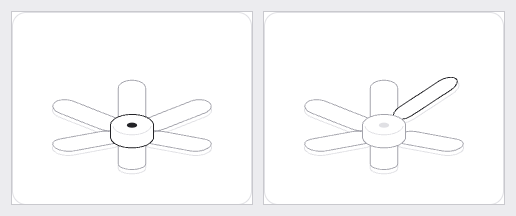
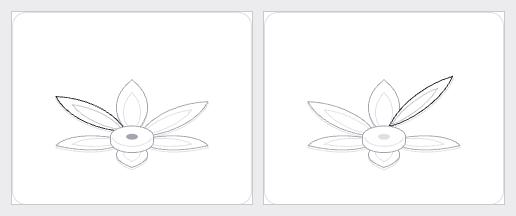
fix(figures): the Aster mark reads as a flower, not a fan
Petals are pointed lenses with a vein crease, widest at two fifths as the
mark's drawing has them, on a flat amber disc instead of a puck, cupped 12°
at rest with the upper-left petal raised and bright as board 07 draws it.
The gesture is unchanged. Engine bytes unchanged; header ranges updated;
the bench page and look sheets under docs/figures/aster are the new ones.

diff --git a/src/lib/figures/aster.ts b/src/lib/figures/aster.ts
@@ -25,8 +25,8 @@
  *
  * Lines 51–765 below are that package's engine (its src/core, built as the Hairline skill's
  * kernel.js), unchanged byte for byte, except line 133, a `// prettier-ignore` that is ours.
- * Lines 768–994 are the Aster figure: `mount()` from line 839, its SPEC from line 985.
- * Lines 996–1129 are the adapter, copied from the package's `create()` (src/mount.ts) for this one figure.
+ * Lines 768–1026 are the Aster figure: `mount()` from line 865, its SPEC from line 1017.
+ * Lines 1028–1161 are the adapter, copied from the package's `create()` (src/mount.ts) for this one figure.
  *
  * When the package is bumped, regenerate the engine block from the bench page the skill builds; never patch it by hand.
  */
@@ -767,13 +767,13 @@ var HL = (() => {
 
 // 2. the figure --------------------------------------------------------------------------------
 /**
- * Aster: the Aster mark as a thing on a desk. Six full-round petals, each a
- * thin plate hinged at the hub, around a raised amber disc. The pointer's
- * angle picks the nearest petal: it lifts off the ground on the 700ms curve
- * and tilts, by springs, so the point under the pointer rises most, the tip
- * when the pointer is out, the near edge when it is to one side. The disc is
- * the amber: bright at rest, dimming in two steps as the pointer goes out a
- * petal and brightening again as it comes back in. The slider is the tilt.
+ * Aster: the Aster mark as a flower on a desk. Six pointed petals, each a thin
+ * plate with a vein, hinged under a flat amber disc and cupped upward at rest,
+ * one of them raised and bright, as the mark is drawn. The pointer's angle
+ * picks the nearest petal: it lifts on the 700ms curve and tilts, by springs,
+ * so the point under the pointer rises most, the tip when the pointer is out,
+ * the near edge when it is to one side. The disc is the amber: it brightens as
+ * the pointer comes in over it, and the petals rest. The slider is the tilt.
  *
  * The pattern: one of many, picked by angle. A tween for which, springs for
  * where, and a hit test on the ground plane, the rest pose, so a petal lifting
@@ -789,7 +789,6 @@ const {
 	prism,
 	proj,
 	rad,
-	rrect,
 	spring,
 	stepS,
 	tdone,
@@ -808,15 +807,17 @@ const {
 } = HL;
 
 const N = 6,
-	W = 14,
-	L = 38,
-	R0 = 8,
-	T = 2.4,
+	W = 16,
+	L = 42,
+	R0 = 4,
+	T = 1.2,
 	R = 11,
-	HD = 7,
-	LIFT = 4,
+	HD = 3,
+	LIFT = 5,
 	ROLL = 0.5;
-const CUP = rad(6); // every petal rests tipped up a little, like a flower's, so rest is never flat
+const CUP = rad(12); // every petal rests cupped upward, like a flower's, so rest is never flat
+const REST_K = 5,
+	REST_LIFT = 3; // the mark's raised petal: upper left, a little off the ground
 const PHI0 = rad(225); // petal 1 points up the screen at the 2:1 camera
 const STEP = rad(360 / N);
 const REACH = R0 + L + 4;
@@ -825,6 +826,31 @@ const REACH = R0 + L + 4;
 function axes(k) {
 	const a = PHI0 + k * STEP;
 	return { ax: [Math.cos(a), Math.sin(a)], sd: [-Math.sin(a), Math.cos(a)], a };
+}
+
+/** A pointed petal as a ring of samples {u, v, nu, nv}: two cubics from the base to the tip, widest at two fifths, as the mark draws it. */
+function lens(v0, len, half, n) {
+	const c = half * 1.33; // the control points' offset gives a maximum width of about three quarters of it
+	const side = (s) => {
+		const out = [];
+		for (let i = 1; i < n; i++) {
+			const t = i / n,
+				mt = 1 - t;
+			const u = s * 3 * c * mt * t * (mt + t),
+				v = v0 + len * (3 * mt * mt * t * 0.29 + 3 * mt * t * t * 0.71 + t * t * t);
+			const du = s * 3 * c * (mt * mt - t * t),
+				dv = len * (3 * mt * mt * 0.29 + 6 * mt * t * (0.71 - 0.29) + 3 * t * t * (1 - 0.71));
+			const m = Math.hypot(du, dv);
+			out.push({ u, v, nu: (s * dv) / m, nv: (-s * du) / m });
+		}
+		return out;
+	};
+	return [
+		{ u: 0, v: v0, nu: 0, nv: -1 },
+		...side(1),
+		{ u: 0, v: v0 + len, nu: 0, nv: 1 },
+		...side(-1).reverse()
+	];
 }
 
 /** Local petal point (u across, v along from the hinge, w through the plate) rolled by rho, pitched by th and lifted, in world. */
@@ -840,7 +866,7 @@ function mount({ stage, svg, read }, value) {
 	const bag = disposer();
 	let tilt = rad(value);
 
-	// Fitted to the mark with one petal lifted and tipped up at the slider's far end, so nothing leaves the frame.
+	// Fitted to the flower with one petal lifted and tipped up at the slider's far end, so nothing leaves the frame.
 	const ZT = LIFT + L * Math.sin(rad(32) + CUP) + T;
 	const C = Cam(45, 0.5, 3.3);
 	const E = REACH - 4;
@@ -863,7 +889,8 @@ function mount({ stage, svg, read }, value) {
 		front = facing(C);
 
 	const g = mk('g', {}, svg);
-	const ring = rrect(-W / 2, R0, W / 2, R0 + L, W / 2, 6);
+	const ring = lens(R0, L, W / 2, 9),
+		vein = lens(R0 + 2, L * 0.72, (W / 2) * 0.55, 7);
 
 	// petals, far to near, so a near plate covers a far one
 	const petals = [];
@@ -876,7 +903,7 @@ function mount({ stage, svg, read }, value) {
 			depth: mid[0] + mid[1],
 			th: spring(CUP),
 			rho: spring(0),
-			z: tween(0),
+			z: tween(k === REST_K ? REST_LIFT : 0),
 			last: null
 		});
 	}
@@ -884,12 +911,13 @@ function mount({ stage, svg, read }, value) {
 		p.grp = mk('g', {}, g);
 		p.back = mk('path', { class: 'lo' }, p.grp);
 		p.face = mk('path', { class: 'sil' }, p.grp);
+		p.vein = mk('path', { class: 'nf lo' }, p.grp);
 	}
 
-	// the disc, which never moves: a short cylinder with its crease, and the amber as a dot on its top
+	// the disc, which never moves: a flat cylinder with its crease, and the amber as a dot on its top
 	const disc = solid(g);
 	put(disc, prism(P, front, circ(R, 28), circ(R - 1.2, 28), 0, HD));
-	const amber = flatDot(g, C, 2.6, 'dot');
+	const amber = flatDot(g, C, 3, 'dot');
 	place(amber, P(0, 0, HD));
 
 	function draw(p, th, rho, lift) {
@@ -902,9 +930,10 @@ function mount({ stage, svg, read }, value) {
 		)
 			return;
 		p.last = [th, rho, lift];
-		const at = (w) => ring.map((q) => P(...world(p.ax, th, rho, lift, q.u, q.v, w)));
-		p.back.setAttribute('d', poly(at(0)));
-		p.face.setAttribute('d', poly(at(T)));
+		const at = (r, w) => r.map((q) => P(...world(p.ax, th, rho, lift, q.u, q.v, w)));
+		p.back.setAttribute('d', poly(at(ring, 0)));
+		p.face.setAttribute('d', poly(at(ring, T)));
+		p.vein.setAttribute('d', poly(at(vein, T)));
 	}
 
 	const B = register(stage, (dt, now) => {
@@ -919,9 +948,9 @@ function mount({ stage, svg, read }, value) {
 	});
 	bag.add(B.unregister);
 
-	let act = -2,
+	let act = -3,
 		level = '';
-	/** Sets the amber's step: bright over the disc and at rest, medium near it, dim out at a tip. One highlight: the disc rim only when no petal is lit. */
+	/** The amber's step: bright over the disc, medium near it or at rest, dim out at a tip. The disc rim lights only when no petal is lit. */
 	function glow(lv) {
 		if (lv === level) return;
 		level = lv;
@@ -939,13 +968,16 @@ function mount({ stage, svg, read }, value) {
 		return { k, d, x, y };
 	}
 
+	/** Lit petal and its lift: at rest the mark's raised petal, a little; under the pointer the chosen one, fully. */
+	const lit = (k) => (act === -2 ? k === REST_K : k === act);
 	function setActive(h) {
 		const now = performance.now();
 		if (h.k !== act) {
 			act = h.k;
 			for (const p of petals) {
-				tset(p.z, p.k === act ? LIFT : 0, now, 0);
-				p.face.classList.toggle('hi', p.k === act);
+				tset(p.z, p.k === act ? LIFT : act === -2 && p.k === REST_K ? REST_LIFT : 0, now, 0);
+				p.face.classList.toggle('hi', lit(p.k));
+				p.vein.classList.toggle('lo', !lit(p.k));
 			}
 			read.textContent = act === -2 ? 'rest' : act === -1 ? 'centre' : 'petal ' + (act + 1);
 		}
@@ -961,11 +993,11 @@ function mount({ stage, svg, read }, value) {
 				p.rho.t = 0;
 			}
 		}
-		glow(act === -2 || act === -1 ? 'hi' : h.d < R0 + L / 2 ? 'm' : 'off');
+		glow(act === -1 ? 'hi' : act === -2 || h.d < R0 + L / 2 ? 'm' : 'off');
 		B.wake();
 	}
 
-	glow('hi');
+	setActive({ k: -2, d: 0, x: 0, y: 0 });
 	bag.add(
 		pointer(stage, {
 			move: (pt) => setActive(hit(pt)),

diff --git a/docs/figures/aster/hairline-aster.html b/docs/figures/aster/hairline-aster.html
@@ -877,25 +877,26 @@ var HL = (() => {
 </script>
 <script type="module" id="hl-figure">
 /**
- * Aster: the Aster mark as a thing on a desk. Six full-round petals, each a
- * thin plate hinged at the hub, around a raised amber disc. The pointer's
- * angle picks the nearest petal: it lifts off the ground on the 700ms curve
- * and tilts, by springs, so the point under the pointer rises most, the tip
- * when the pointer is out, the near edge when it is to one side. The disc is
- * the amber: bright at rest, dimming in two steps as the pointer goes out a
- * petal and brightening again as it comes back in. The slider is the tilt.
+ * Aster: the Aster mark as a flower on a desk. Six pointed petals, each a thin
+ * plate with a vein, hinged under a flat amber disc and cupped upward at rest,
+ * one of them raised and bright, as the mark is drawn. The pointer's angle
+ * picks the nearest petal: it lifts on the 700ms curve and tilts, by springs,
+ * so the point under the pointer rises most, the tip when the pointer is out,
+ * the near edge when it is to one side. The disc is the amber: it brightens as
+ * the pointer comes in over it, and the petals rest. The slider is the tilt.
  *
  * The pattern: one of many, picked by angle. A tween for which, springs for
  * where, and a hit test on the ground plane, the rest pose, so a petal lifting
  * out from under the pointer cannot flip the choice.
  */
 const {
-  Cam, circ, clamp, facing, fit, hull, poly, prism, proj, rad, rrect, spring, stepS,
+  Cam, circ, clamp, facing, fit, poly, prism, proj, rad, spring, stepS,
   tdone, tset, tval, tween, disposer, flatDot, mk, place, pointer, put, register, solid, unproj,
 } = HL;
 
-const N = 6, W = 14, L = 38, R0 = 8, T = 2.4, R = 11, HD = 7, LIFT = 4, ROLL = 0.5;
-const CUP = rad(6); // every petal rests tipped up a little, like a flower's, so rest is never flat
+const N = 6, W = 16, L = 42, R0 = 4, T = 1.2, R = 11, HD = 3, LIFT = 5, ROLL = 0.5;
+const CUP = rad(12); // every petal rests cupped upward, like a flower's, so rest is never flat
+const REST_K = 5, REST_LIFT = 3; // the mark's raised petal: upper left, a little off the ground
 const PHI0 = rad(225); // petal 1 points up the screen at the 2:1 camera
 const STEP = rad(360 / N);
 const REACH = R0 + L + 4;
@@ -904,6 +905,23 @@ const REACH = R0 + L + 4;
 function axes(k) {
   const a = PHI0 + k * STEP;
   return { ax: [Math.cos(a), Math.sin(a)], sd: [-Math.sin(a), Math.cos(a)], a };
+}
+
+/** A pointed petal as a ring of samples {u, v, nu, nv}: two cubics from the base to the tip, widest at two fifths, as the mark draws it. */
+function lens(v0, len, half, n) {
+  const c = half * 1.33; // the control points' offset gives a maximum width of about three quarters of it
+  const side = (s) => {
+    const out = [];
+    for (let i = 1; i < n; i++) {
+      const t = i / n, mt = 1 - t;
+      const u = s * 3 * c * mt * t * (mt + t), v = v0 + len * (3 * mt * mt * t * 0.29 + 3 * mt * t * t * 0.71 + t * t * t);
+      const du = s * 3 * c * (mt * mt - t * t), dv = len * (3 * mt * mt * 0.29 + 6 * mt * t * (0.71 - 0.29) + 3 * t * t * (1 - 0.71));
+      const m = Math.hypot(du, dv);
+      out.push({ u, v, nu: (s * dv) / m, nv: (-s * du) / m });
+    }
+    return out;
+  };
+  return [{ u: 0, v: v0, nu: 0, nv: -1 }, ...side(1), { u: 0, v: v0 + len, nu: 0, nv: 1 }, ...side(-1).reverse()];
 }
 
 /** Local petal point (u across, v along from the hinge, w through the plate) rolled by rho, pitched by th and lifted, in world. */
@@ -917,7 +935,7 @@ function mount({ stage, svg, read }, value) {
   const bag = disposer();
   let tilt = rad(value);
 
-  // Fitted to the mark with one petal lifted and tipped up at the slider's far end, so nothing leaves the frame.
+  // Fitted to the flower with one petal lifted and tipped up at the slider's far end, so nothing leaves the frame.
   const ZT = LIFT + L * Math.sin(rad(32) + CUP) + T;
   const C = Cam(45, 0.5, 3.3);
   const E = REACH - 4;
@@ -925,33 +943,35 @@ function mount({ stage, svg, read }, value) {
   const P = proj(C), front = facing(C);
 
   const g = mk("g", {}, svg);
-  const ring = rrect(-W / 2, R0, W / 2, R0 + L, W / 2, 6);
+  const ring = lens(R0, L, W / 2, 9), vein = lens(R0 + 2, L * 0.72, W / 2 * 0.55, 7);
 
   // petals, far to near, so a near plate covers a far one
   const petals = [];
   for (let k = 0; k < N; k++) {
     const ax = axes(k), mid = world(ax, 0, 0, 0, 0, R0 + L / 2, 0);
-    petals.push({ k, ax, depth: mid[0] + mid[1], th: spring(CUP), rho: spring(0), z: tween(0), last: null });
+    petals.push({ k, ax, depth: mid[0] + mid[1], th: spring(CUP), rho: spring(0), z: tween(k === REST_K ? REST_LIFT : 0), last: null });
   }
   for (const p of petals.slice().sort((a, b) => a.depth - b.depth)) {
     p.grp = mk("g", {}, g);
     p.back = mk("path", { class: "lo" }, p.grp);
     p.face = mk("path", { class: "sil" }, p.grp);
+    p.vein = mk("path", { class: "nf lo" }, p.grp);
   }
 
-  // the disc, which never moves: a short cylinder with its crease, and the amber as a dot on its top
+  // the disc, which never moves: a flat cylinder with its crease, and the amber as a dot on its top
   const disc = solid(g);
   put(disc, prism(P, front, circ(R, 28), circ(R - 1.2, 28), 0, HD));
-  const amber = flatDot(g, C, 2.6, "dot");
+  const amber = flatDot(g, C, 3, "dot");
   place(amber, P(0, 0, HD));
 
   function draw(p, th, rho, lift) {
     const l = p.last;
     if (l && Math.abs(l[0] - th) < 1e-4 && Math.abs(l[1] - rho) < 1e-4 && Math.abs(l[2] - lift) < 1e-3) return;
     p.last = [th, rho, lift];
-    const at = (w) => ring.map((q) => P(...world(p.ax, th, rho, lift, q.u, q.v, w)));
-    p.back.setAttribute("d", poly(at(0)));
-    p.face.setAttribute("d", poly(at(T)));
+    const at = (r, w) => r.map((q) => P(...world(p.ax, th, rho, lift, q.u, q.v, w)));
+    p.back.setAttribute("d", poly(at(ring, 0)));
+    p.face.setAttribute("d", poly(at(ring, T)));
+    p.vein.setAttribute("d", poly(at(vein, T)));
   }
 
   const B = register(stage, (dt, now) => {
@@ -965,8 +985,8 @@ function mount({ stage, svg, read }, value) {
   });
   bag.add(B.unregister);
 
-  let act = -2, level = "";
-  /** Sets the amber's step: bright over the disc and at rest, medium near it, dim out at a tip. One highlight: the disc rim only when no petal is lit. */
+  let act = -3, level = "";
+  /** The amber's step: bright over the disc, medium near it or at rest, dim out at a tip. The disc rim lights only when no petal is lit. */
   function glow(lv) {
     if (lv === level) return;
     level = lv;
@@ -983,13 +1003,16 @@ function mount({ stage, svg, read }, value) {
     return { k, d, x, y };
   }
 
+  /** Lit petal and its lift: at rest the mark's raised petal, a little; under the pointer the chosen one, fully. */
+  const lit = (k) => (act === -2 ? k === REST_K : k === act);
   function setActive(h) {
     const now = performance.now();
     if (h.k !== act) {
       act = h.k;
       for (const p of petals) {
-        tset(p.z, p.k === act ? LIFT : 0, now, 0);
-        p.face.classList.toggle("hi", p.k === act);
+        tset(p.z, p.k === act ? LIFT : act === -2 && p.k === REST_K ? REST_LIFT : 0, now, 0);
+        p.face.classList.toggle("hi", lit(p.k));
+        p.vein.classList.toggle("lo", !lit(p.k));
       }
       read.textContent = act === -2 ? "rest" : act === -1 ? "centre" : "petal " + (act + 1);
     }
@@ -1003,11 +1026,11 @@ function mount({ stage, svg, read }, value) {
         p.th.t = CUP; p.rho.t = 0;
       }
     }
-    glow(act === -2 || act === -1 ? "hi" : h.d < R0 + L / 2 ? "m" : "off");
+    glow(act === -1 ? "hi" : act === -2 || h.d < R0 + L / 2 ? "m" : "off");
     B.wake();
   }
 
-  glow("hi");
+  setActive({ k: -2, d: 0, x: 0, y: 0 });
   bag.add(pointer(stage, { move: (pt) => setActive(hit(pt)), leave: () => setActive({ k: -2, d: 0, x: 0, y: 0 }) }));
   bag.add(() => svg.replaceChildren());
 
